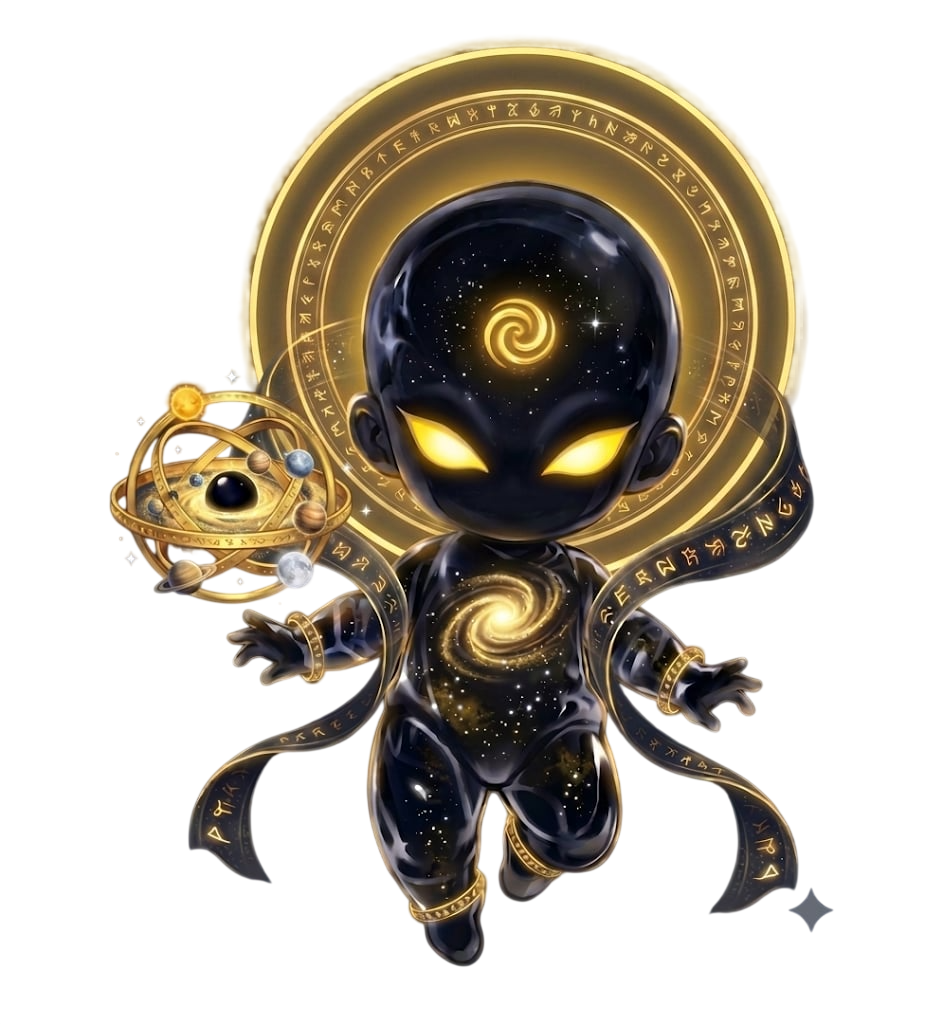
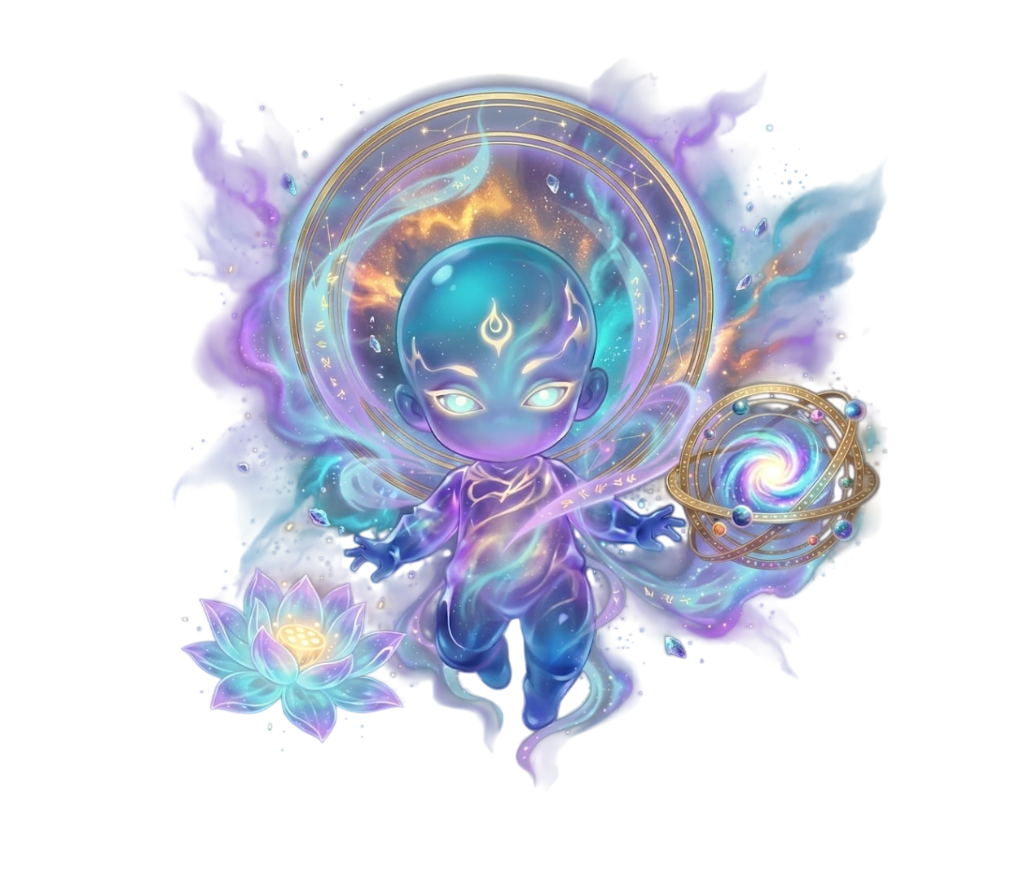
feat(dao_anh): complete and fine-tune Hỗn Độn Sơ Khai Đạo Anh stages 1 to 5

diff --git a/src/lib/daoAnhData.js b/src/lib/daoAnhData.js
@@ -62,17 +62,17 @@ export const DAO_ANH_LIST = [
       '/images/dao_anh/hon_don_so_khai_k4.png',
       '/images/dao_anh/hon_don_so_khai_k5.png',
     ],
-    primaryColor: '#ffd700',
-    secondaryColor: '#f59e0b',
-    glowColor: 'rgba(255, 215, 0, 0.75)',
-    bgGradient: 'radial-gradient(circle, rgba(255,215,0,0.2) 0%, rgba(10,10,15,0.95) 100%)',
-    bodyStyle: 'deep_obsidian_void',
-    eyeStyle: 'pure_solar_gold',
-    foreheadMark: 'primordial_chaos_spiral',
-    ribbonStyle: 'black_stardust_gold_runes',
-    coreStyle: 'golden_galaxy_singularity',
-    poem: 'Hỗn độn vị phân, nhất điểm linh quang.',
-    desc: 'Đạo Anh ngưng kết khi thiên địa còn là một mảnh hỗn mang sơ khai. Lồng ngực xoáy động một vòng xoáy tinh hà chứa đựng vạn pháp nguyên thủy.',
+    primaryColor: '#06b6d4',
+    secondaryColor: '#8b5cf6',
+    glowColor: 'rgba(6, 182, 212, 0.75)',
+    bgGradient: 'radial-gradient(circle, rgba(6,182,212,0.2) 0%, rgba(139,92,246,0.15) 50%, rgba(10,10,18,0.95) 100%)',
+    bodyStyle: 'celestial_cosmic_aurora_jade',
+    eyeStyle: 'starlight_celestial_slit',
+    foreheadMark: 'primordial_chaos_crest',
+    ribbonStyle: 'cosmic_starlight_gradient_ribbons',
+    coreStyle: 'primordial_genesis_multiverse',
+    poem: 'Hỗn độn sơ khai, ngọc sắc hỗn nguyên diễn vạn pháp.',
+    desc: 'Đạo Anh ngưng kết từ khí Thái Sơ Khởi Nguyên. Thần thể ngọc bích đa sắc huyền ảo chuyển từ thanh lam sang tử la, lồng ngực xoay vần tinh hà vạn tượng, nắm giữ quy tắc chư thiên vũ trụ.',
     skillName: 'Hỗn Độn Vạn Pháp Quy Tông',
     skillDesc: 'Miễn nhiễm 40% sát thương ngũ hành, tăng 50% hiệu suất hấp thu EXP Đạo Cung.',
     tribulationForm: 'Hỗn Độn Bất Diệt Thánh Thai',
@@ -2042,20 +2042,20 @@ export const DAO_ANH_CUSTOM_TRANSFORMS = {
     5: { scale: 1.75, x: 0, y: 15 },
   },
   hon_don_so_khai: {
-    0: { scale: 1.25, x: 0, y: 0 },
-    1: { scale: 1.25, x: 0, y: 0 },
-    2: { scale: 1.25, x: 0, y: 0 },
-    3: { scale: 1.25, x: 0, y: 0 },
-    4: { scale: 1.25, x: 0, y: 0 },
-    5: { scale: 1.55, x: 0, y: 0 },
+    0: { scale: 1.35, x: 0, y: 0 },
+    1: { scale: 1.35, x: 0, y: 0 },
+    2: { scale: 1.35, x: 0, y: 0 },
+    3: { scale: 1.45, x: 0, y: 0 },
+    4: { scale: 1.60, x: 0, y: 0 },
+    5: { scale: 1.87, x: 0, y: 0 },
   },
   da_hon_don_so_khai: {
-    0: { scale: 1.25, x: 0, y: 0 },
-    1: { scale: 1.25, x: 0, y: 0 },
-    2: { scale: 1.25, x: 0, y: 0 },
-    3: { scale: 1.25, x: 0, y: 0 },
-    4: { scale: 1.25, x: 0, y: 0 },
-    5: { scale: 1.55, x: 0, y: 0 },
+    0: { scale: 1.35, x: 0, y: 0 },
+    1: { scale: 1.35, x: 0, y: 0 },
+    2: { scale: 1.35, x: 0, y: 0 },
+    3: { scale: 1.45, x: 0, y: 0 },
+    4: { scale: 1.60, x: 0, y: 0 },
+    5: { scale: 1.87, x: 0, y: 0 },
   },
   hong_mong_bat_diet: {
     0: { scale: 1.25, x: 0, y: 0 },
